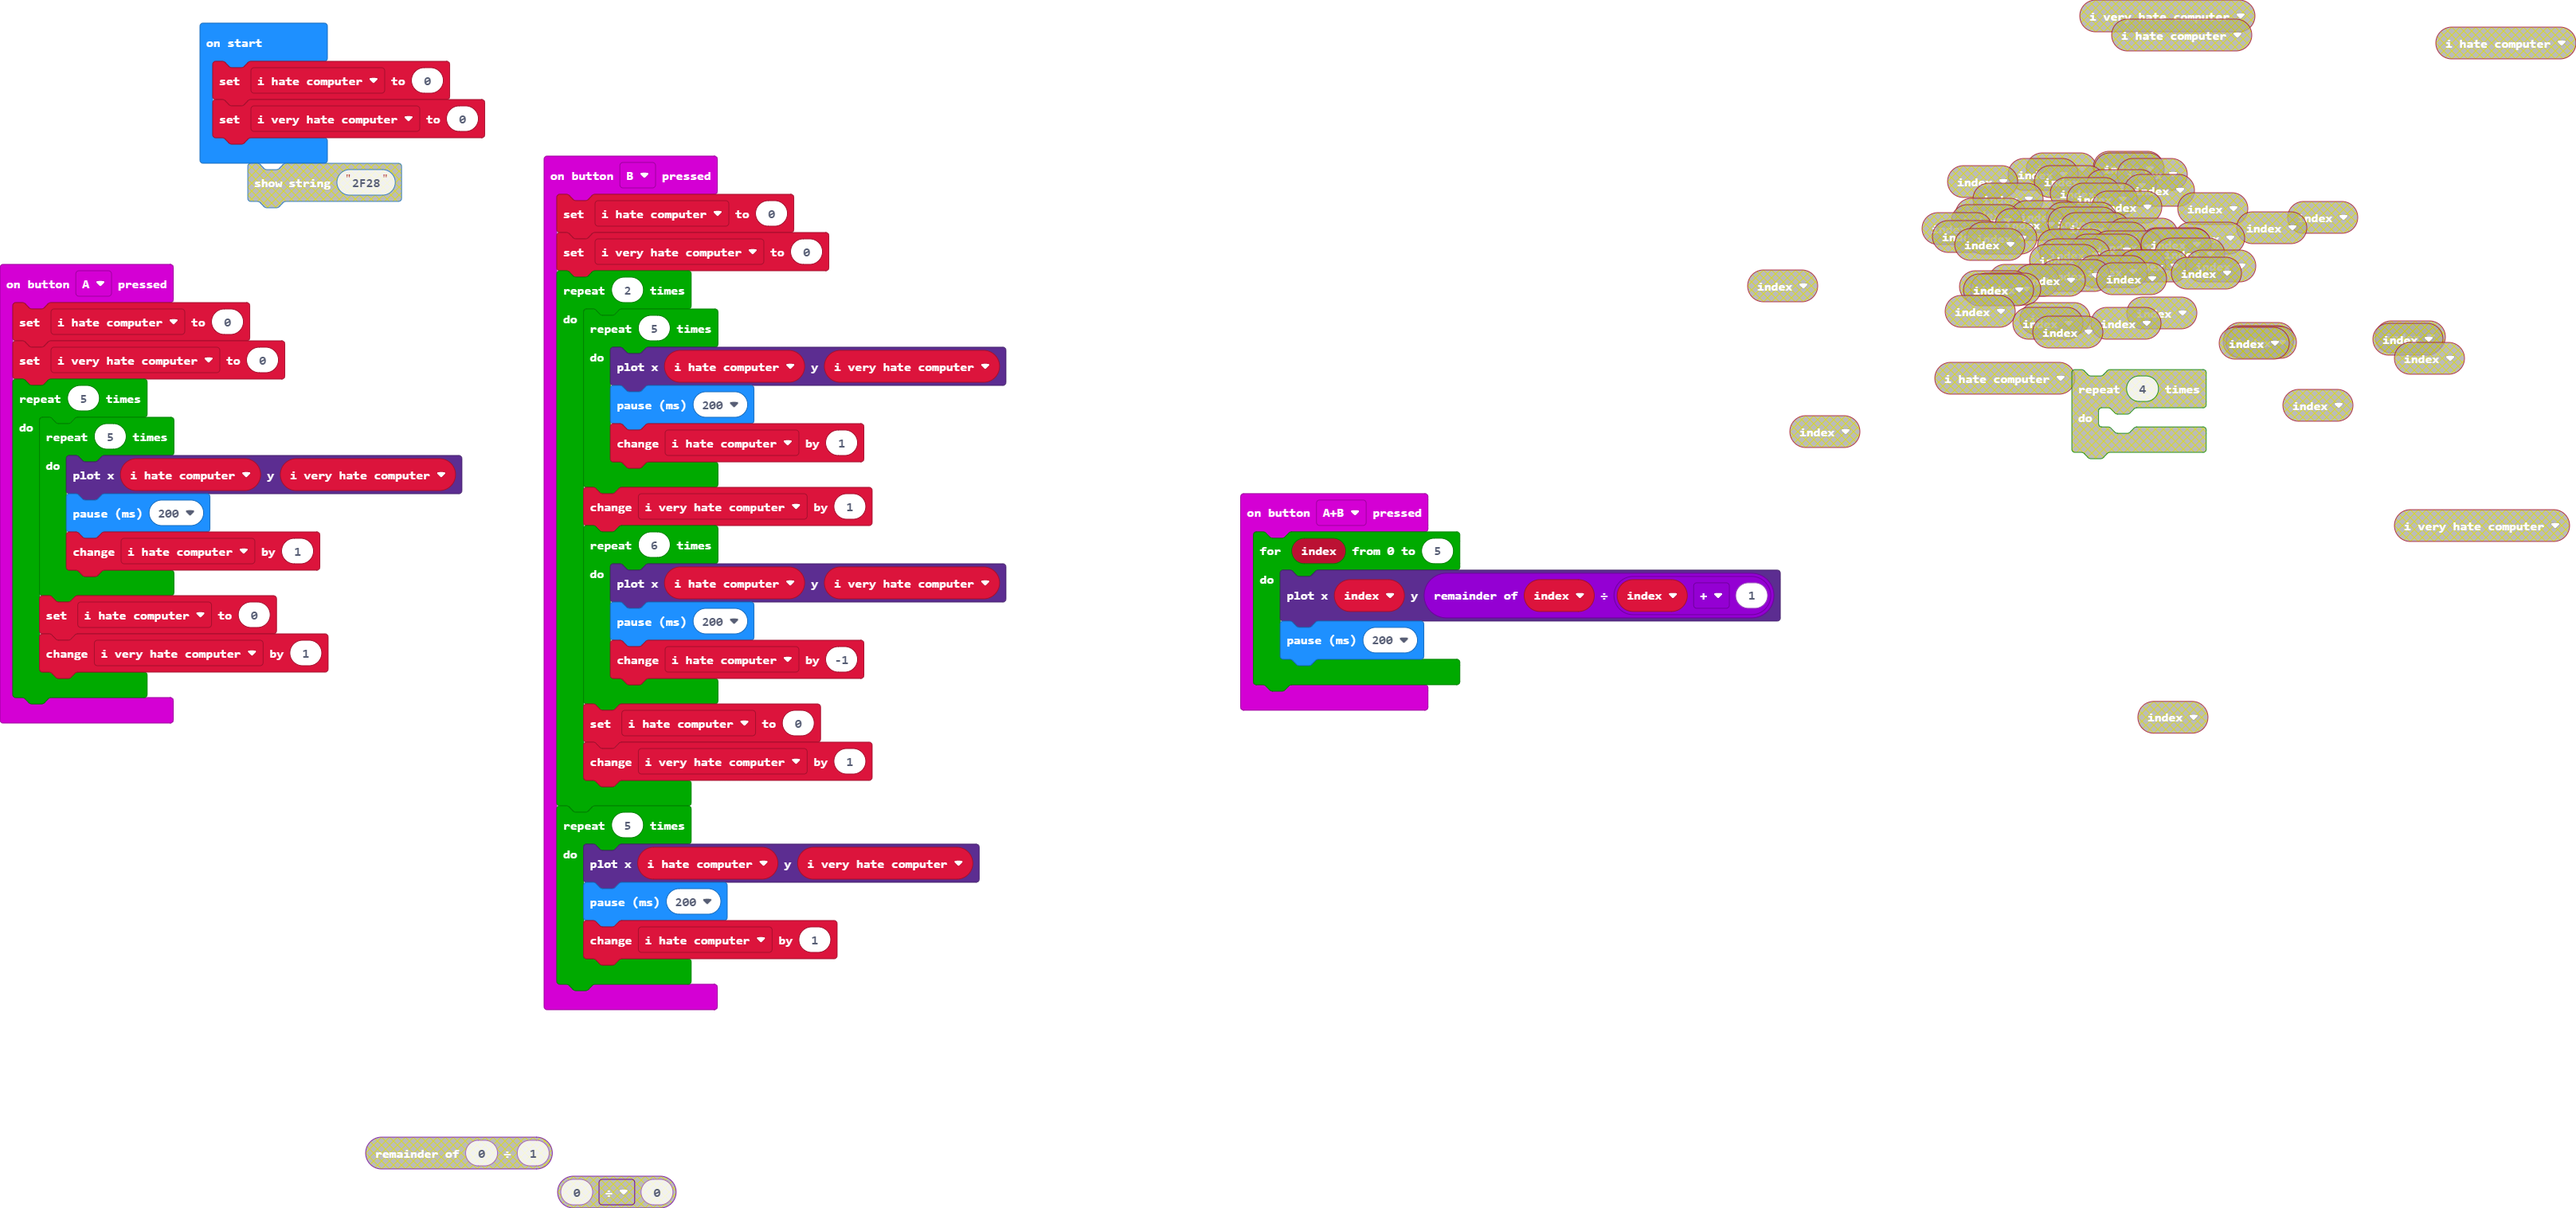
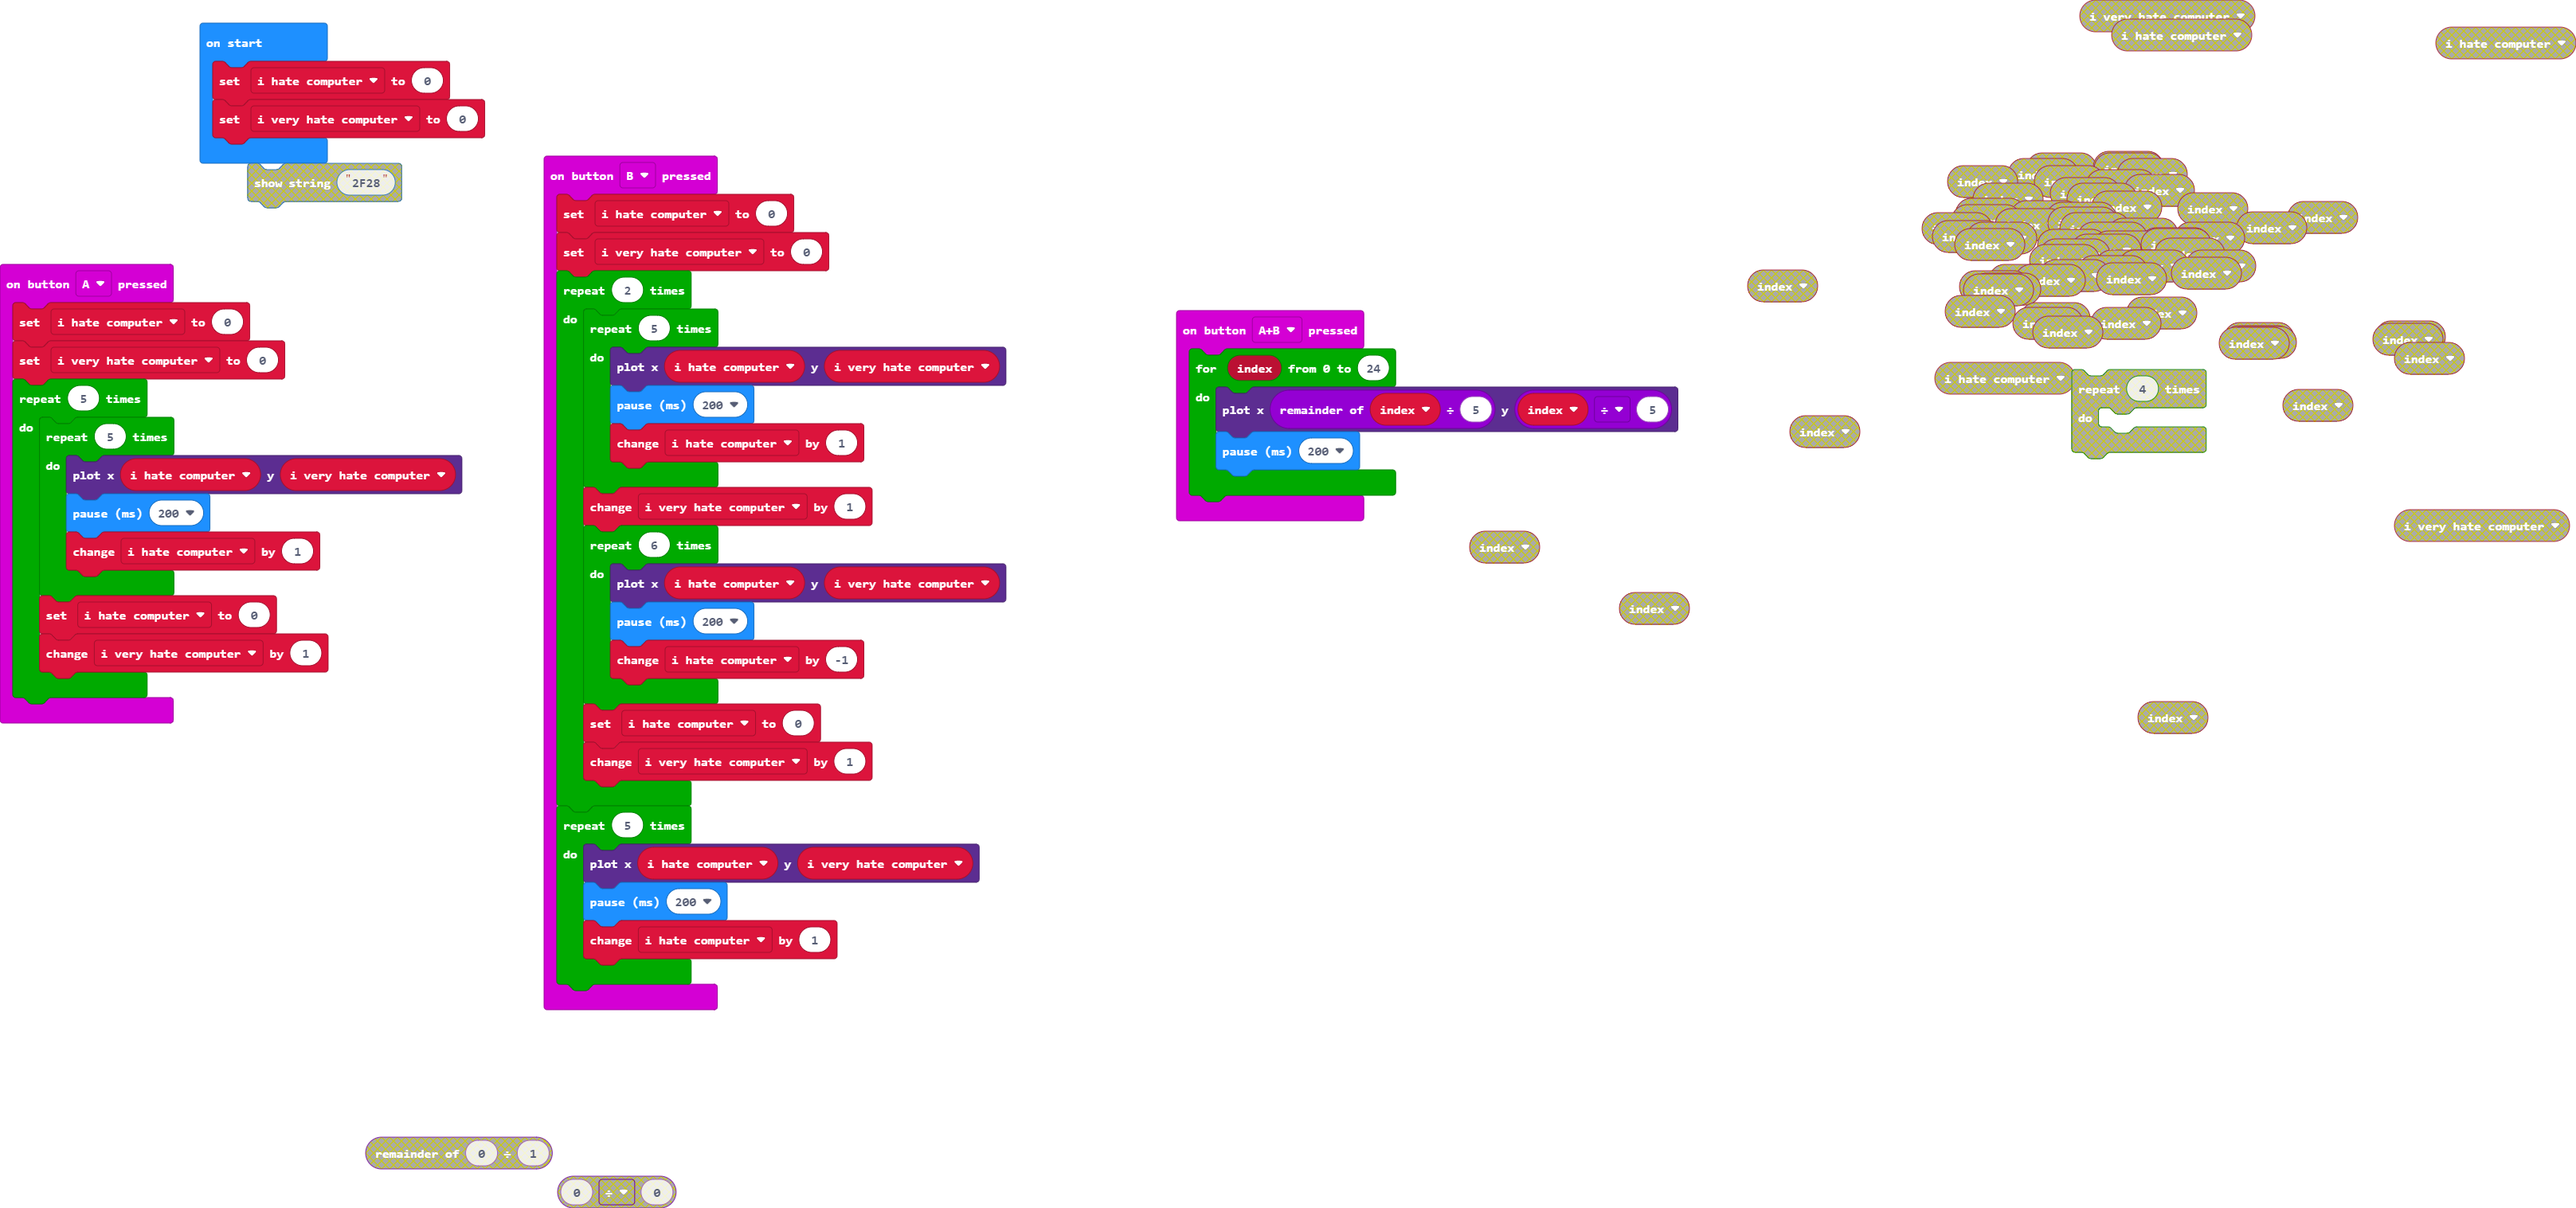
Update main.blocks, main.ts

diff --git a/main.ts b/main.ts
@@ -12,8 +12,8 @@ input.onButtonPressed(Button.A, function () {
     }
 })
 input.onButtonPressed(Button.AB, function () {
-    for (let index = 0; index <= 5; index++) {
-        led.plot(index, index % (index + 1))
+    for (let index = 0; index <= 24; index++) {
+        led.plot(index % 5, index / 5)
         basic.pause(200)
     }
 })
